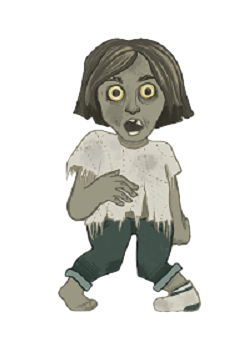
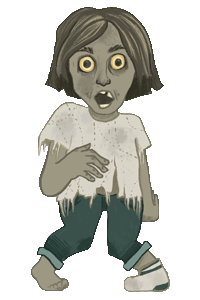
Разработана заставка, первый уровень: поставлено оружие, прицел, два монстра на экране Столкновения разработаны, но так себе - нужно обдумать. добавлен счетчик времени, убийств

Changed region(s): [[0.15, 0.0, 0.87, 0.99]]

diff --git a/main.py b/main.py
@@ -10,13 +10,13 @@ HEIGHT = 600
 
 # Создание экрана, групп, параметров
 pygame.init()
-pygame.key.set_repeat(200, 70)
+#pygame.key.set_repeat(200, 70)
 screen = pygame.display.set_mode((WIDTH, HEIGHT))
 clock = pygame.time.Clock()
 
 all_sprites = pygame.sprite.Group()
 monster_group = pygame.sprite.Group()
-PICTURES = ['monster.png', 'monster1.png']
+PICTURES = ['monster1.png', 'monster2.png']
 
 pygame.time.set_timer(pygame.USEREVENT, 1000)
 
@@ -61,8 +61,9 @@ class Monster(pygame.sprite.Sprite):
         self.mh = self.image.get_height()
         # Данное условие нужно для расположения первого монстра на начальном экране
         if x != 750 and y != 0:
+            #while not pygame.sprite.spritecollide(self, monster_group, False) != 1:
             self.x = randint(0, WIDTH - self.mw)
-            self.y = randint(0, HEIGHT - self.mh)
+            self.y = randint(0, HEIGHT - self.mh - 150)
             self.rect = self.image.get_rect().move(self.x, self.y)
         else:
             self.rect = self.image.get_rect().move(750, 0)
@@ -123,11 +124,32 @@ def start_screen():
                     all_sprites.remove(monster)
                     # Остановка стартовой музыки
                     pygame.mixer.music.stop()
-                    Arrow(all_sprites)
+                    #Arrow(all_sprites)
                     FirstLevel() # начинаем игру
         monster_group.draw(screen)
         pygame.display.flip()
         clock.tick()
+
+
+# Сколько секунд осталось
+def time(seconds):
+    font = pygame.font.SysFont('Verdana', 20)
+    text = font.render(f"Осталось секунд: {seconds}", 1, (100, 255, 100))
+    screen.blit(text, (20, 20))
+
+
+# Сколько убито монстров
+def killscount(count):
+    font = pygame.font.SysFont('Verdana', 20)
+    text = font.render(f"Убийств: {count}", 1, (100, 255, 100))
+    screen.blit(text, (350, 20))
+
+
+# Сколько осталось убить монстров
+def leftkills(count):
+    font = pygame.font.SysFont('Verdana', 20)
+    text = font.render(f"Осталось убить: {count}", 1, (100, 255, 100))
+    screen.blit(text, (800, 20))
 
 
 # Первый уровень игры
@@ -136,27 +158,53 @@ def FirstLevel():
     for i in range(2):
         monster = Monster(PICTURES[randint(0, 1)], 100, 100)
         monster_list.append(monster)
-
     fon = pygame.transform.scale(load_image('fon.jpg'), (WIDTH, HEIGHT))
     gun = load_image('gun3.png')
+    arrow = load_image("прицел2.jpg", -1)
+    count = 0
+    seconds = 30
+    #arrow = Arrow(all_sprites)
     while True:
+        x, y = pygame.mouse.get_pos()
         screen.blit(fon, (0, 0))
         for i in range(2):
-            screen.blit(monster_list[1].image,
-                        (monster_list[1].x, monster_list[1].y))
+            screen.blit(monster_list[i].image,
+                        (monster_list[i].x, monster_list[i].y))
 
-        screen.blit(gun, (400, 450))
-
+        screen.blit(gun, (x, 450)) # или х оставить неизменным?
+        # что делать с стрелкой?
+        screen.blit(arrow, (x - arrow.get_width() / 2, y - arrow.get_height() / 2))
+        arrow_r = pygame.Rect(x - arrow.get_width() / 2, y - arrow.get_height() / 2, arrow.get_width(),
+                                      arrow.get_height())
         for event in pygame.event.get():
             if event.type == pygame.QUIT:
                 terminate()
             if event.type == pygame.MOUSEMOTION:
                 all_sprites.update(event)
-
+            if event.type == pygame.MOUSEBUTTONDOWN and event.button == 1:
+                # продумать столкновения (+ добавить их в функцию?)
+                for i in range(2):
+                    if arrow_r.colliderect(monster_list[i]):
+                        all_sprites.remove(monster_list[i])
+                        monster_group.remove(monster_list[i])
+                        del monster_list[i]
+                        monster = Monster(PICTURES[randint(0, 1)], 100, 100)
+                        monster_list.append(monster)
+                        count += 1
+            if event.type == pygame.USEREVENT:
+                seconds -= 1
+        time(seconds)
+        killscount(count)
+        leftkills(20 - count)
+        if seconds == 0:
+            if count > 20:
+                pass
+            else:
+                print('you lost')
         all_sprites.draw(screen)
         all_sprites.update()
         pygame.display.update()
 
-
+# Диалог PyQt как зовут пользователя
 pygame.mouse.set_visible(False)
 start_screen()
